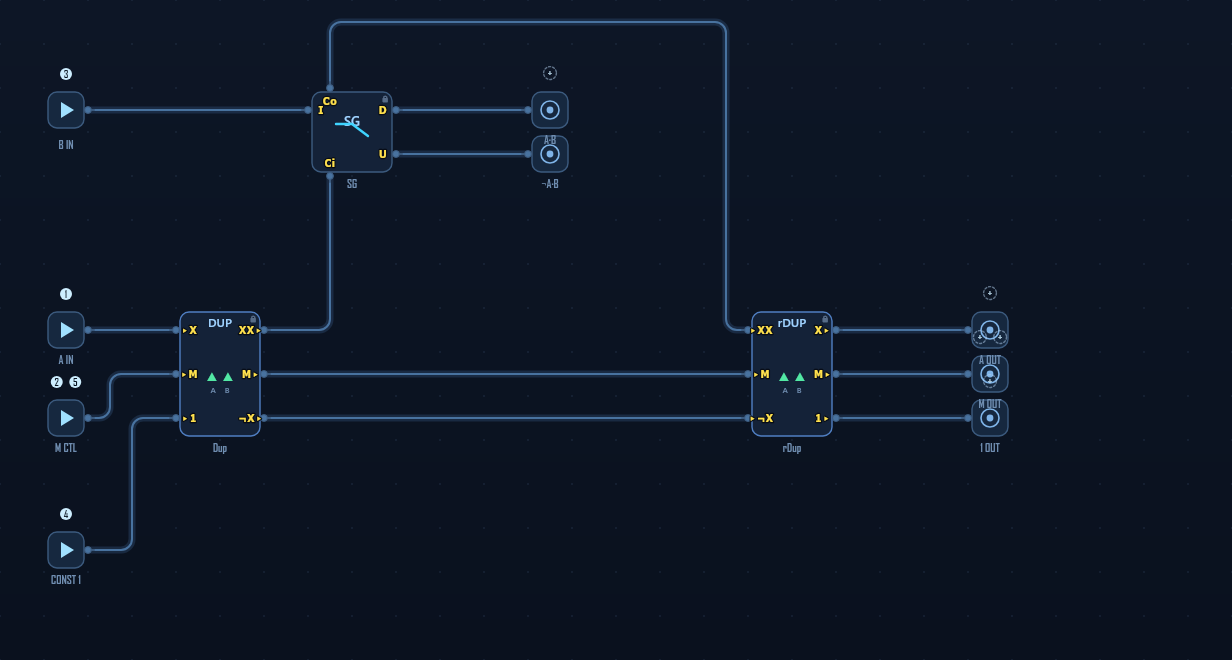
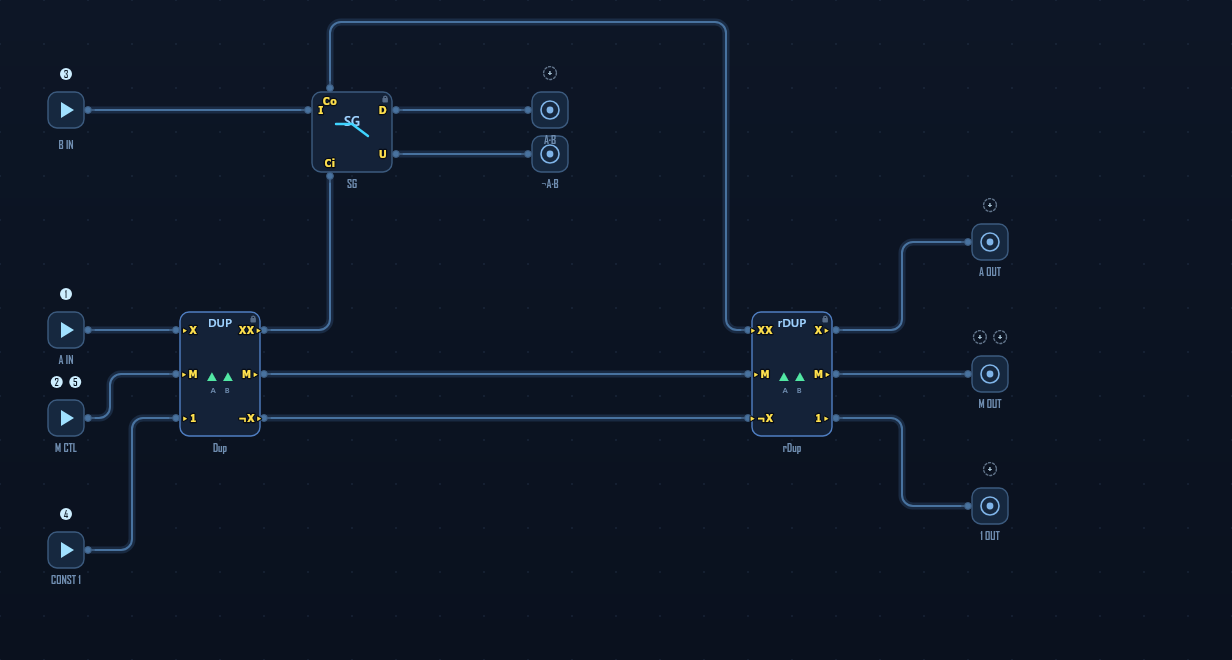
w2l6: spread the output detectors so labels/indicators don't overlap
A OUT / M OUT / 1 OUT were 1 cell apart, so their labels and catch-indicator chips
collided with neighbors. Move them to y5/8/11 (3 apart) and re-route their feeds (X up,
C down, M-out straight). These are terminal detectors, so it's purely cosmetic: re-verified
0 crossings, certify@100, and 0 fails over 20000 random seeds + every corner + the grid.
Render regenerated.

Changed region(s): [[0.7094, 0.3333, 0.8328, 0.5455], [0.7094, 0.6061, 0.8328, 0.7576], [0.7403, 0.7273, 0.8328, 0.8182]]

diff --git a/js/levels.js b/js/levels.js
@@ -324,7 +324,7 @@ version of a <b>Duplicator</b> can reduce the two A’s back to a single copy, p
         el('L_B', 'LAUNCHER', 1, 2), el('L_A', 'LAUNCHER', 1, 7), el('L_M', 'LAUNCHER', 1, 9), el('L_1', 'LAUNCHER', 1, 12),
         el('dup', 'DUP', 4, 7), el('sg', 'TSG', 7, 2, 2, { mir: true }), el('rdup', 'RDUP', 17, 7),
         el('D_and', 'DETECTOR', 12, 2), el('D_nand', 'DETECTOR', 12, 3),
-        el('D_A', 'DETECTOR', 22, 7), el('D_M', 'DETECTOR', 22, 8), el('D_1', 'DETECTOR', 22, 9),
+        el('D_A', 'DETECTOR', 22, 5), el('D_M', 'DETECTOR', 22, 8), el('D_1', 'DETECTOR', 22, 11),
       ],
       labels: {
         L_A: 'A IN', L_M: 'M CTL', L_1: 'CONST 1', L_B: 'B IN', dup: 'Dup', sg: 'SG', rdup: 'rDup',